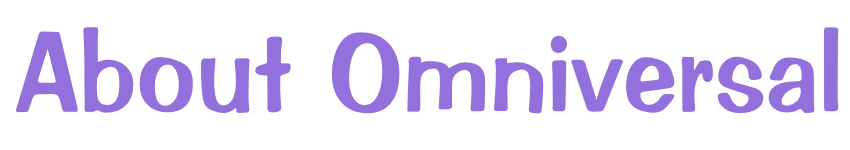
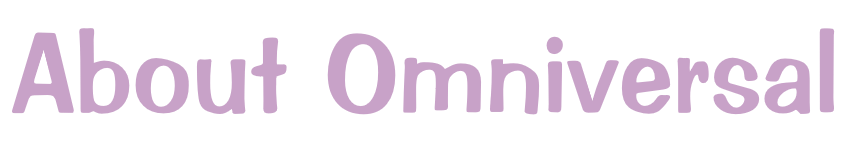
Edited everything
I've added a white-colored <hr> tag to the top and bottom's of every .html listed here.

I changed the color of the About pngs to Lilac Purple which is Destiny's new dialog color of choice.

I also changed the color of Destiny's dialog to Lilac Purple as stated above.

I centered the text on the Blog just for now until I get a second opinion on what looks better.

Changed region(s): [[0.0, 0.16, 1.0, 0.7733], [0.6424, 0.24, 0.6729, 0.3733]]

diff --git a/About.html b/About.html
@@ -18,37 +18,39 @@
 							<p style="color: #FEC5E5">| <a href="/" style="color: #FEC5E5">Home</a> | <a href="https://www.player1universe.com/About" style="color: #FEC5E5">About</a> | <a href="https://www.player1universe.com/Blog" style="color: #FEC5E5">Blog</a> | <a href="https://www.player1universe.com/Videos" style="color: #FEC5E5">Videos</a> | <a href="https://www.player1universe.com/Games" style="color: #FEC5E5">Games</a> | <a href="https://www.player1universe.com/Characters/My_Characters" style="color: #FEC5E5">My Characters</a> | <a href="https://www.player1universe.com/Stories" style="color: #FEC5E5">Stories</a> | <a href="https://www.player1universe.com/ContactMe" style="color: #FEC5E5">Contact Me</a> | <a href="Credits" style="color: #FEC5E5">Credits</a> |</p>
 						
 						</center>
+						<hr style="color: white">
 					</ul>
 				</nav>
 				<br>
 			<center><a href="/"><img src="assets/img/Banner.png" alt="Banner/Home Button" class="banner"></a></center>
 		</header>
 		<center><img src="assets/img/AboutZD.png" alt="About Me!" class="abtme"></center>
-		<center><p style="color: #9370db">Hello! I am Destiny! This is about Zachary Danielson. He is a 17-year-old with high-functioning Autism.</p></center>
+		<center><p style="color: #C8A2C8">Hello! I am Destiny! This is about Zachary Danielson. He is a 17-year-old with high-functioning Autism.</p></center>
 			<br>
-		<center><p style="color: #9370db">He is the creator of <a href="https://discord.gg/23PqTAmG4V" style="color: #9370db">Toontown Fantasy</a> and this website, the author of <a href="https://www.wattpad.com/story/224624037-the-star-of-toontown" style="color: #9370db">The Star of Toontown</a>, he runs the <a href="https://www.youtube.com/channel/UCG0OvtYX4qA6Ap1OxQpohOA" style="color: #9370db">Player 1 Universe</a> YouTube channel!
+		<center><p style="color: #C8A2C8">He is the creator of <a href="https://discord.gg/23PqTAmG4V" style="color: #C8A2C8">Toontown Fantasy</a> and this website, the author of <a href="https://www.wattpad.com/story/224624037-the-star-of-toontown" style="color: #C8A2C8">The Star of Toontown</a>, he runs the <a href="https://www.youtube.com/channel/UCG0OvtYX4qA6Ap1OxQpohOA" style="color: #C8A2C8">Player 1 Universe</a> YouTube channel!
 			<br>
-		<center><p style="color: #9370db">He is working on creating an interconnected Multiverse with my <a href="https://aminoapps.com/c/OmniRP" style="color: #9370db">roleplays</a>, my <a href="https://www.wattpad.com/user/Player1Gamez" style="color: #9370db">stories</a>, my <a href="https://www.youtube.com/channel/UCG0OvtYX4qA6Ap1OxQpohOA" style="color: #9370db">videos, skits, & movies</a>, and of course, <a href="Games" style="color: #9370db">video games</a> called The Destiny Saga!</p></center>
+		<center><p style="color: #C8A2C8">He is working on creating an interconnected Multiverse with my <a href="https://aminoapps.com/c/OmniRP" style="color: #C8A2C8">roleplays</a>, my <a href="https://www.wattpad.com/user/Player1Gamez" style="color: #C8A2C8">stories</a>, my <a href="https://www.youtube.com/channel/UCG0OvtYX4qA6Ap1OxQpohOA" style="color: #C8A2C8">videos, skits, & movies</a>, and of course, <a href="Games" style="color: #C8A2C8">video games</a> called The Destiny Saga!</p></center>
 			<br>
-		<center><p style="color: #9370db">More information coming soon!</p></center>
+		<center><p style="color: #C8A2C8">More information coming soon!</p></center>
 			<br>
 			<br>
-		<center><img src="assets/img/AboutOmni.png" alt="About Omniversal!" class="Omni" style="color: #9370db"></center>
-		<center><p style="color: #9370db">Omniversal is Zachary Danielson's own company that he wants to have go big, like way up there with Google, Amazon, and the bunch except better than them.</p></center>
+		<center><img src="assets/img/AboutOmni.png" alt="About Omniversal!" class="Omni" style="color: #C8A2C8"></center>
+		<center><p style="color: #C8A2C8">Omniversal is Zachary Danielson's own company that he wants to have go big, like way up there with Google, Amazon, and the bunch except better than them.</p></center>
 		<br>
-		<center><p style="color: #9370db">What he means by that is that he wants to create his own video games, movies, search engine (maybe), publishing service, and everything, hence the part of the name "Omni". Everything will be less corrupt and if he discovers that they're becoming corrupt, he swears he will turn his company into a non-profit company and fire the corrupt employees as quickly as possible!</p></center>
+		<center><p style="color: #C8A2C8">What he means by that is that he wants to create his own video games, movies, search engine (maybe), publishing service, and everything, hence the part of the name "Omni". Everything will be less corrupt and if he discovers that they're becoming corrupt, he swears he will turn his company into a non-profit company and fire the corrupt employees as quickly as possible!</p></center>
 			<br>
 			<br>
-		<center><p style="color: #9370db">More information coming soon!</p></center>
+		<center><p style="color: #C8A2C8">More information coming soon!</p></center>
 			<br>
 			<br>
 		<center><img src="assets/img/AboutP1U.png" alt="About Player 1 Universe!"></center>
-		<center><p style="color: #9370db">Player 1 Universe follows the life of Zachary Danielson, a Water Elemental, <a href="https://tulpa.fandom.com/wiki/Tulpamancy" style="color: #9370db">Tulpamancer</a> and the incarnate of the Greek Primordial goddess named <a href="https://greekmythology.wikia.org/wiki/Thalassa#:~:text=Thalassa%20%20%20Name%3A%20%20%20Thalassa%20,Aigaion%2C%20Halia%2C%20The%20Telkhines%2C%20The%20Fish%2C%20...%20" style="color: #9370db">Thalassa</a> as he attempts to restore his once-forgotten spirit name as a household name among the rest of the gods and goddesses by getting big on YouTube!</p></center>
+		<center><p style="color: #C8A2C8">Player 1 Universe follows the life of Zachary Danielson, a Water Elemental, <a href="https://tulpa.fandom.com/wiki/Tulpamancy" style="color: #C8A2C8">Tulpamancer</a> and the incarnate of the Greek Primordial goddess named <a href="https://greekmythology.wikia.org/wiki/Thalassa#:~:text=Thalassa%20%20%20Name%3A%20%20%20Thalassa%20,Aigaion%2C%20Halia%2C%20The%20Telkhines%2C%20The%20Fish%2C%20...%20" style="color: #C8A2C8">Thalassa</a> as he attempts to restore his once-forgotten spirit name as a household name among the rest of the gods and goddesses by getting big on YouTube!</p></center>
 		<br>
 		<br>
+		<hr style="color: white">
 		<footer>
 			
-			<center><p style="color: #9370db">Player 1 Universe and Omniversal are both protected under the Poor Man's Copyright law from 1976 and are owned by Zachary Davidson as of 2020 until he can purchase a proper copyright for his website</p></center>
+			<center><p style="color: #C8A2C8">Player 1 Universe and Omniversal are both protected under the Poor Man's Copyright law from 1976 and are owned by Zachary Davidson as of 2020 until he can purchase a proper copyright for his website</p></center>
 
 		</footer>
 			</article>

diff --git a/Blog.html b/Blog.html
@@ -18,6 +18,7 @@
 							<p style="color: #FEC5E5">| <a href="/" style="color: #FEC5E5">Home</a> | <a href="https://www.player1universe.com/About" style="color: #FEC5E5">About</a> | <a href="https://www.player1universe.com/Blog" style="color: #FEC5E5">Blog</a> | <a href="https://www.player1universe.com/Videos" style="color: #FEC5E5">Videos</a> | <a href="https://www.player1universe.com/Games" style="color: #FEC5E5">Games</a> | <a href="https://www.player1universe.com/Characters/My_Characters" style="color: #FEC5E5">My Characters</a> | <a href="https://www.player1universe.com/Stories" style="color: #FEC5E5">Stories</a> | <a href="https://www.player1universe.com/ContactMe" style="color: #FEC5E5">Contact Me</a> | <a href="Credits" style="color: #FEC5E5">Credits</a> |</p>
 						
 						</center>
+						<hr style="color: white">
 					</ul>
 				</nav>
 			<div class="wrapper">
@@ -31,42 +32,43 @@
 					<div class="row">
 						<div class="col-sm-12">
 							<div class="section_subtitle">Blog</div>
-								<h2>Recent <strong>Blogs</strong></h2>
+								<center><h2 style="color: #C8A2C8">Recent <strong>Blogs</strong></h2></center>
 						</div>
 					</div>
 				</div>
-			<br><br>
+				<br>
 		<div class="row">
 			<div class="news-active">
 				<div class="col-md-4">
 					<div class="latest-news-wrap">
 						<div class="news-img">
-							<img src="assets/img/Blog-News.png" alt="Blog" class="img-responsive">
+							<center><img src="assets/img/Blog-News.png" alt="Blog" class="img-responsive"></center>
 							<div class="deat">
-								<span>19th</span>
+								<center><span>19th</span>
 								<span>November, </span>
-								<span>2020</span>
+								<span>2020</span></center>
 							</div>
 						</div>
 						<div class="news-content">
-							<p>Welcome to Player 1 Universe!</p><br>
+							<center><p>Welcome to Player 1 Universe!</p></center><br>
 
-							<a href="https://www.player1universe.com/Blog/1/Welcome-to-Player-1-Universe!" style="color: #FEC5E5">Read More!</a>
+							<center><a href="https://www.player1universe.com/Blog/1/Welcome-to-Player-1-Universe!" style="color: #C8A2C8">Read More!</a></center>
 
 						</div>
 					</div>
 				</div>
 			</div>
-		
 		</div>
-				 </article>
-				 </div>
+		<br>
+		<br>
+	</article>
+	</div>
 			</section>
 
+		<hr style="color: white">
 		<footer>
-			<a href="mailto:zacharyp1aysgamez@gmail.com" style="color: white"> <img src="assets/img/Gmail.png"</a> <a href="https://twitter.com/player1gamez" alt="Check out my Twitter!" style="color: white"><img src="assets/img/Twitter.png"></a><a href="Transmissions" style="color: white"><img src="assets/img/Invisible.png">
 			
-			<center><p>Player 1 Universe and Omniversal are both protected under the Poor Man's Copyright law from 1976 and are owned by Zachary Davidson as of 2020 until he can purchase a proper copyright for his website</p></center>
+			<center><p style="color: white">Player 1 Universe and Omniversal are both protected under the Poor Man's Copyright law from 1976 and are owned by Zachary Davidson as of 2020 until he can purchase a proper copyright for his website</p></center>
 
 		</footer>
 	</body>

diff --git a/index.html b/index.html
@@ -12,7 +12,7 @@
 	<body style="font-family:'Impress BT'">
 		<style>
 			body {
-				color: #FEC5E5;
+				color: #C8A2C8;
 			}
 		</style>
 		<header>
@@ -23,6 +23,7 @@
 							<p style="color: #FEC5E5">| <a href="/" style="color: #FEC5E5">Home</a> | <a href="https://www.player1universe.com/About" style="color: #FEC5E5">About</a> | <a href="https://www.player1universe.com/Blog" style="color: #FEC5E5">Blog</a> | <a href="https://www.player1universe.com/Videos" style="color: #FEC5E5">Videos</a> | <a href="https://www.player1universe.com/Games" style="color: #FEC5E5">Games</a> | <a href="https://www.player1universe.com/Characters/My_Characters" style="color: #FEC5E5">My Characters</a> | <a href="https://www.player1universe.com/Stories" style="color: #FEC5E5">Stories</a> | <a href="https://www.player1universe.com/ContactMe" style="color: #FEC5E5">Contact Me</a> | <a href="Credits" style="color: #FEC5E5">Credits</a> |</p>
 						
 						</center>
+						<hr style="color: white">
 					</ul>
 				</nav>
 				<br>
@@ -44,7 +45,7 @@
 		<center><p><a href="https://www.Player1Universe.com/Characters/Zachary_Davidson" class="Zachary">Zachary</a> David Danielson is the goddess incarnate Thalassa!
 			<br>
 			<br>
-		<p><center>Click <a href="About" style="color: #FEC5E5">here</a> to learn more about Zachary Danielson's Company!</center></p>
+		<p><center>Click <a href="About" style="color: #C8A2C8">here</a> to learn more about Zachary Danielson's Company!</center></p>
 			<br>
 			<br>
 			</article>
@@ -67,6 +68,7 @@
 
 
 
+		<hr style="color: white">
 		<footer>
 			<center><p style="white">Player 1 Universe and Omniversal are both protected under the Poor Man's Copyright law from 1976 and are owned by Zachary Davidson as of 2020 until he can purchase a proper copyright for his website</p></center>
 

diff --git a/Credits.html b/Credits.html
@@ -18,6 +18,7 @@
 							<p style="color: #FEC5E5">| <a href="/" style="color: #FEC5E5">Home</a> | <a href="https://www.player1universe.com/About" style="color: #FEC5E5">About</a> | <a href="https://www.player1universe.com/Blog" style="color: #FEC5E5">Blog</a> | <a href="https://www.player1universe.com/Videos" style="color: #FEC5E5">Videos</a> | <a href="https://www.player1universe.com/Games" style="color: #FEC5E5">Games</a> | <a href="https://www.player1universe.com/Characters/My_Characters" style="color: #FEC5E5">My Characters</a> | <a href="https://www.player1universe.com/Stories" style="color: #FEC5E5">Stories</a> | <a href="https://www.player1universe.com/ContactMe" style="color: #FEC5E5">Contact Me</a> | <a href="Credits" style="color: #FEC5E5">Credits</a> |</p>
 						
 						</center>
+						<hr style="color: white">
 					</ul>
 				</nav>
 			<div class="wrapper">
@@ -29,6 +30,7 @@
 		<center><p style="color: white">The credit for the icon used for The Heroes Across the Multiverse: The Video Game is as follows...: <a href="https://www.vectorstock.com/royalty-free-vector/sword-and-shield-or-crossed-sword-sheath-in-the-vector-33678070" style="color: white">Sword and shield or crossed sword sheath in the vector by vectorstock</a></p></center>
 		</article>
 		</div>
+		<hr style="color: white">
 		<footer>
 			<a href="mailto:zacharyp1aysgamez@gmail.com" style="color: white"> <img src="assets/img/Gmail.png"</a> <a href="https://twitter.com/player1gamez" alt="Check out my Twitter!" style="color: white"><img src="assets/img/Twitter.png">
 			

diff --git a/Hub.html b/Hub.html
@@ -18,6 +18,7 @@
 							<p style="color: #FEC5E5">| <a href="/" style="color: #FEC5E5">Home</a> | <a href="https://www.player1universe.com/About" style="color: #FEC5E5">About</a> | <a href="https://www.player1universe.com/Blog" style="color: #FEC5E5">Blog</a> | <a href="https://www.player1universe.com/Videos" style="color: #FEC5E5">Videos</a> | <a href="https://www.player1universe.com/Games" style="color: #FEC5E5">Games</a> | <a href="https://www.player1universe.com/Characters/My_Characters" style="color: #FEC5E5">My Characters</a> | <a href="https://www.player1universe.com/Stories" style="color: #FEC5E5">Stories</a> | <a href="https://www.player1universe.com/ContactMe" style="color: #FEC5E5">Contact Me</a> | <a href="Credits" style="color: #FEC5E5">Credits</a> |</p>
 						
 						</center>
+						<hr style="color: white">
 					</ul>
 				</nav>
 			<div class="wrapper">
@@ -34,6 +35,7 @@
 
 		<center><p style="color: #FEC5E5">Keep in touch though because it soon will be available!</p></center>
 		</div>
+			<hr style="color: white">
 		<footer>
 			
 			<center><p style="color: white">Toontown Fantasy is not affiliated with The Walt Disney Company and/or the Disney Interactive Media Group. Toontown Fantasy is an entirely free game, funded out of pocket by its staff members thus meaning the game contains no subscriptions, advertisements, donations, or any other forms of revenue.</p></center>

diff --git a/Fantasy.html b/Fantasy.html
@@ -16,8 +16,9 @@
 						<center>
 
 							<p style="color: #FEC5E5">| <a href="/" style="color: #FEC5E5">Home</a> | <a href="https://www.player1universe.com/About" style="color: #FEC5E5">About</a> | <a href="https://www.player1universe.com/Blog" style="color: #FEC5E5">Blog</a> | <a href="https://www.player1universe.com/Videos" style="color: #FEC5E5">Videos</a> | <a href="https://www.player1universe.com/Games" style="color: #FEC5E5">Games</a> | <a href="https://www.player1universe.com/Characters/My_Characters" style="color: #FEC5E5">My Characters</a> | <a href="https://www.player1universe.com/Stories" style="color: #FEC5E5">Stories</a> | <a href="https://www.player1universe.com/ContactMe" style="color: #FEC5E5">Contact Me</a> | <a href="Credits" style="color: #FEC5E5">Credits</a> |</p>
-						
+							
 						</center>
+						<hr style="color: white">
 					</ul>
 				</nav>
 			<div class="wrapper">
@@ -27,6 +28,7 @@
 		</header>
 		</article>
 		</div>
+		<hr style="color: white">
 		<footer>
 			<center><p style="color: white">Toontown Fantasy is not affiliated with The Walt Disney Company and/or the Disney Interactive Media Group. Toontown Fantasy is an entirely free game, funded out of pocket by its staff members thus meaning the game contains no subscriptions, advertisements, donations, or any other forms of revenue.</p></center>
 

diff --git a/Stories.html b/Stories.html
@@ -18,6 +18,7 @@
 							<p style="color: #FEC5E5">| <a href="/" style="color: #FEC5E5">Home</a> | <a href="https://www.player1universe.com/About" style="color: #FEC5E5">About</a> | <a href="https://www.player1universe.com/Blog" style="color: #FEC5E5">Blog</a> | <a href="https://www.player1universe.com/Videos" style="color: #FEC5E5">Videos</a> | <a href="https://www.player1universe.com/Games" style="color: #FEC5E5">Games</a> | <a href="https://www.player1universe.com/Characters/My_Characters" style="color: #FEC5E5">My Characters</a> | <a href="https://www.player1universe.com/Stories" style="color: #FEC5E5">Stories</a> | <a href="https://www.player1universe.com/ContactMe" style="color: #FEC5E5">Contact Me</a> | <a href="Credits" style="color: #FEC5E5">Credits</a> |</p>
 						
 						</center>
+						<hr style="color: white">
 					</ul>
 				</nav>
 				<br>
@@ -29,6 +30,7 @@
 		<center><iframe width="500" height="280" frameborder="0" allowfullscreen="true" src="https://embed.wattpad.com/story/224624037" ></iframe></center>
 		</article>
 		</div>
+			<hr style="color: white">
 		<footer>
 
 			<center><p style="color: white">Player 1 Universe and Omniversal are both protected under the Poor Man's Copyright law from 1976 and are owned by Zachary Davidson as of 2020 until he can purchase a proper copyright for his website</p></center>

diff --git a/Games.html b/Games.html
@@ -18,6 +18,7 @@
 							<p style="color: #FEC5E5">| <a href="/" style="color: #FEC5E5">Home</a> | <a href="https://www.player1universe.com/About" style="color: #FEC5E5">About</a> | <a href="https://www.player1universe.com/Blog" style="color: #FEC5E5">Blog</a> | <a href="https://www.player1universe.com/Videos" style="color: #FEC5E5">Videos</a> | <a href="https://www.player1universe.com/Games" style="color: #FEC5E5">Games</a> | <a href="https://www.player1universe.com/Characters/My_Characters" style="color: #FEC5E5">My Characters</a> | <a href="https://www.player1universe.com/Stories" style="color: #FEC5E5">Stories</a> | <a href="https://www.player1universe.com/ContactMe" style="color: #FEC5E5">Contact Me</a> | <a href="Credits" style="color: #FEC5E5">Credits</a> |</p>
 						
 						</center>
+						<hr style="color: white">
 					</ul>
 				</nav>
 			<div class="wrapper">
@@ -29,6 +30,7 @@
 		<center><a href="Hub"><img src="assets/img/th.png" alt="Download the Hub" style="color: white"></a></center>
 		</article>
 		</div>
+			<hr style="color: white">
 		<footer>
 					
 			<center><p style="color: white">Player 1 Universe and Omniversal are both protected under the Poor Man's Copyright law from 1976 and are owned by Zachary Davidson as of 2020 until he can purchase a proper copyright for his website</p></center>

diff --git a/Transmissions.html b/Transmissions.html
@@ -18,6 +18,7 @@
 							<p style="color: #FEC5E5">| <a href="/" style="color: #FEC5E5">Home</a> | <a href="https://www.player1universe.com/About" style="color: #FEC5E5">About</a> | <a href="https://www.player1universe.com/Blog" style="color: #FEC5E5">Blog</a> | <a href="https://www.player1universe.com/Videos" style="color: #FEC5E5">Videos</a> | <a href="https://www.player1universe.com/Games" style="color: #FEC5E5">Games</a> | <a href="https://www.player1universe.com/Characters/My_Characters" style="color: #FEC5E5">My Characters</a> | <a href="https://www.player1universe.com/Stories" style="color: #FEC5E5">Stories</a> | <a href="https://www.player1universe.com/ContactMe" style="color: #FEC5E5">Contact Me</a> | <a href="Credits" style="color: #FEC5E5">Credits</a> |</p>
 						
 						</center>
+						<hr style="color: white">
 					</ul>
 				</nav>
 			<div class="wrapper">
@@ -67,7 +68,8 @@
 		<footer>
 			<center><p style="color: #9370db">Created by the Goddess!</p>
 			<br>
-			<br>			
+			<br>
+				<hr style="color: white">
 			<center><p style="color: white">Player 1 Universe and Omniversal are both protected under the Poor Man's Copyright law from 1976 and are owned by Zachary Davidson as of 2020 until he can purchase a proper copyright for his website</p></center>
 		</footer>
 	</body>

diff --git a/Videos.html b/Videos.html
@@ -18,6 +18,7 @@
 							<p style="color: #FEC5E5">| <a href="/" style="color: #FEC5E5">Home</a> | <a href="https://www.player1universe.com/About" style="color: #FEC5E5">About</a> | <a href="https://www.player1universe.com/Blog" style="color: #FEC5E5">Blog</a> | <a href="https://www.player1universe.com/Videos" style="color: #FEC5E5">Videos</a> | <a href="https://www.player1universe.com/Games" style="color: #FEC5E5">Games</a> | <a href="https://www.player1universe.com/Characters/My_Characters" style="color: #FEC5E5">My Characters</a> | <a href="https://www.player1universe.com/Stories" style="color: #FEC5E5">Stories</a> | <a href="https://www.player1universe.com/ContactMe" style="color: #FEC5E5">Contact Me</a> | <a href="Credits" style="color: #FEC5E5">Credits</a> |</p>
 						
 						</center>
+						<hr style="color: white">
 					</ul>
 				</nav>
 				<div class="wrapper">
@@ -125,6 +126,7 @@
 		<br>
 		</article>
 		</div>
+			<hr style="color: white">
 		<footer>			
 			<center><p style="color: white">Player 1 Universe and Omniversal are both protected under the Poor Man's Copyright law from 1976 and are owned by Zachary Davidson as of 2020 until he can purchase a proper copyright for his website</p></center>
 		</footer>

diff --git a/404.html b/404.html
@@ -23,6 +23,7 @@
 							<p style="color: #FEC5E5">| <a href="/" style="color: #FEC5E5">Home</a> | <a href="https://www.player1universe.com/About" style="color: #FEC5E5">About</a> | <a href="https://www.player1universe.com/Blog" style="color: #FEC5E5">Blog</a> | <a href="https://www.player1universe.com/Videos" style="color: #FEC5E5">Videos</a> | <a href="https://www.player1universe.com/Games" style="color: #FEC5E5">Games</a> | <a href="https://www.player1universe.com/Characters/My_Characters" style="color: #FEC5E5">My Characters</a> | <a href="https://www.player1universe.com/Stories" style="color: #FEC5E5">Stories</a> | <a href="https://www.player1universe.com/ContactMe" style="color: #FEC5E5">Contact Me</a> | <a href="Credits" style="color: #FEC5E5">Credits</a> |</p>
 						
 						</center>
+						<hr style="color: white">
 					</ul>
 				</nav>
 				<br>
@@ -37,6 +38,7 @@
 		</main>
 		<br>
 		<br>
+		<hr style="color: white">
 		<footer>
 			<center><p style="color: white">Player 1 Universe and Omniversal are both protected under the Poor Man's Copyright law from 1976 and are owned by Zachary Davidson as of 2020 until he can purchase a proper copyright for his website</p></center>
 		</footer>

diff --git a/assets/css/styles/stylesheet.css b/assets/css/styles/stylesheet.css
@@ -29,7 +29,7 @@
     padding: 30px 30px 20px;
     font-family: 'Impress BT';
     font-size: 50px;
-    color: #FEC5E5;
+    color: #C8A2C8;
     line-height: 44px;
 }
 
@@ -37,7 +37,7 @@
     padding: 30px 30px 20px;
     font-family: 'Impress BT';
     font-size: 50px;
-    color: #FEC5E5;
+    color: #C8A2C8;
     line-height: 44px;
 }
 
@@ -45,7 +45,7 @@
     padding: 0px 30px 20px;
     font-family: 'Impress BT';
     font-size: 16px;
-    color: #FEC5E5;
+    color: #C8A2C8;
     line-height: 24px;
 }
 
@@ -137,7 +137,7 @@ body {
 }
 
 .Zachary {
-    color: #FEC5E5;
+    color: #C8A2C8;
     text-decoration: none;
 }
 
@@ -148,4 +148,16 @@ body {
     1px -1px 0 silver,
     -1px 1px 0 silver,
     -1px 1px 0 silver;
+}
+
+.deat {
+    color: #C8A2C8
+}
+
+.news-content {
+    color: #C8A2C8
+}
+
+body {
+    color: #C8A2C8;
 }
